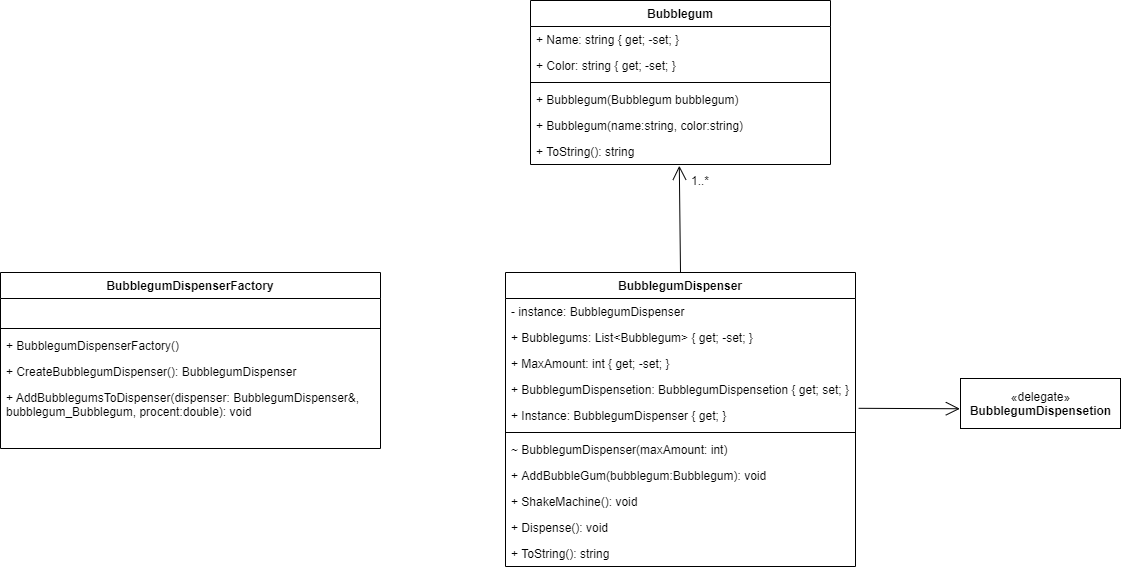
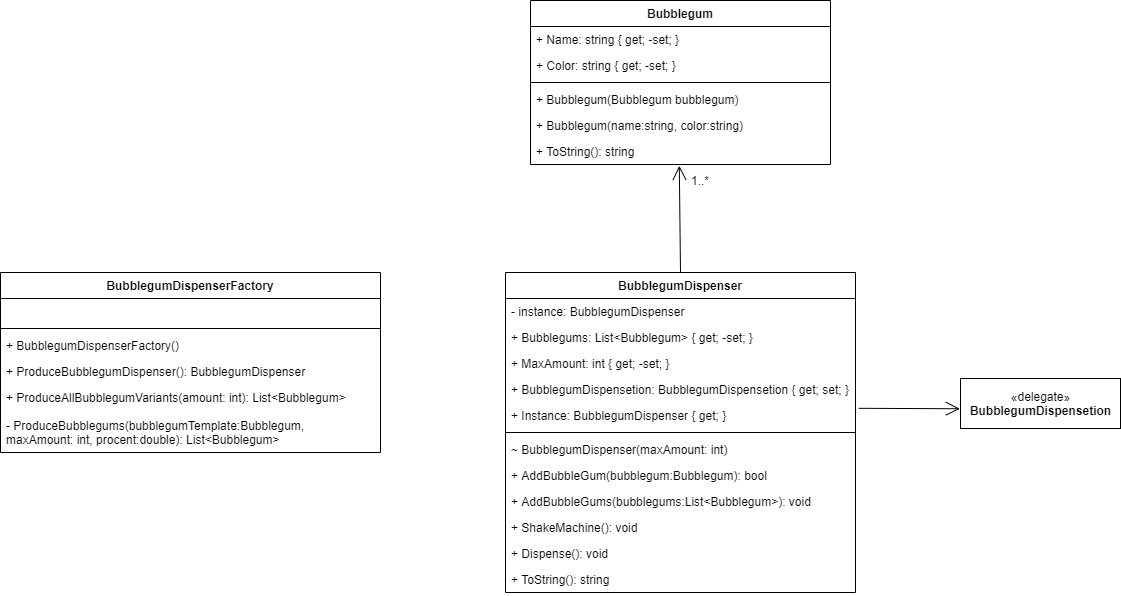
Commit

diff --git a/ChewAndPhew/Lib/BubblegumDispenserFactory.cs b/ChewAndPhew/Lib/BubblegumDispenserFactory.cs
@@ -1,37 +1,41 @@
 using System;
+using System.Collections.Generic;
 
 namespace ChewAndPhew.Lib
 {
     public class BubblegumDispenserFactory
     {
-        /// <summary>
-        /// Used to create new bubblegum dispenser
-        /// </summary>
-        public BubblegumDispenser CreateBubblegumDispenser()
+        public BubblegumDispenser ProduceBubblegumDispenser()
         {
             BubblegumDispenser dispenser = new BubblegumDispenser(55);
-            AddBubblegumsToDispenser(ref dispenser, new Bubblegum("Blueberry", "Indigo"), 25.0);
-            AddBubblegumsToDispenser(ref dispenser, new Bubblegum("Blackberry", "Purple"), 12.0);
-            AddBubblegumsToDispenser(ref dispenser, new Bubblegum("Truttifrutti", "Yellow"), 20.0);
-            AddBubblegumsToDispenser(ref dispenser, new Bubblegum("Orange", "Orange"), 19.0);
-            AddBubblegumsToDispenser(ref dispenser, new Bubblegum("Strawberry", "Red"), 14.0);
-            AddBubblegumsToDispenser(ref dispenser, new Bubblegum("Apple", "Green"), 10.0);
+            dispenser.AddBubblegums(ProduceAllBubblegumVariants(dispenser.MaxAmount));
             dispenser.ShakeMachine();
 
             return dispenser;
         }
-
-        /// <summary>
-        /// Used to bubblegums to dispenser by procent
-        /// </summary>
-        private void AddBubblegumsToDispenser(ref BubblegumDispenser dispenser, Bubblegum bubblegum, double procent)
+        public List<Bubblegum> ProduceAllBubblegumVariants(int amount)
         {
-            int amount = (int)(Math.Round(dispenser.MaxAmount / 100.0) * procent);
+            List<Bubblegum> bubblegums = new List<Bubblegum>(amount);
+            bubblegums.AddRange(ProduceBubblegums(new Bubblegum("Blueberry", "Indigo"), amount, 25.0));
+            bubblegums.AddRange(ProduceBubblegums(new Bubblegum("Blackberry", "Purple"), amount, 12.0));
+            bubblegums.AddRange(ProduceBubblegums(new Bubblegum("Truttifrutti", "Yellow"), amount, 20.0));
+            bubblegums.AddRange(ProduceBubblegums(new Bubblegum("Orange", "Orange"), amount, 19.0));
+            bubblegums.AddRange(ProduceBubblegums(new Bubblegum("Strawberry", "Red"), amount, 14.0));
+            bubblegums.AddRange(ProduceBubblegums(new Bubblegum("Apple", "Green"), amount, 10.0));
+            return bubblegums;
+        }
+
+        private List<Bubblegum> ProduceBubblegums(Bubblegum bubblegumTemplate, int maxAmount, double procent)
+        {
+            int amount = (int)(Math.Round((maxAmount / 100.0) * procent));
+            List<Bubblegum> bubblegums = new List<Bubblegum>(amount);
 
             for (int i = 0; i < amount; i++)
             {
-                dispenser.AddBubbleGum(new Bubblegum(bubblegum));
+                bubblegums.Add(new Bubblegum(bubblegumTemplate));
             }
+
+            return bubblegums;
         }
     }
 }

diff --git a/ChewAndPhew Task 2/Lib/BubblegumDispenserFactory.cs b/ChewAndPhew Task 2/Lib/BubblegumDispenserFactory.cs
@@ -1,33 +1,41 @@
 using System;
 using System.Collections.Generic;
-using System.Text;
 
 namespace ChewAndPhew.Lib
 {
     public class BubblegumDispenserFactory
     {
-        public BubblegumDispenser CreateBubblegumDispenser()
+        public BubblegumDispenser ProduceBubblegumDispenser()
         {
             BubblegumDispenser dispenser = new BubblegumDispenser(55);
-            AddBubblegumsToDispenser(ref dispenser, new Bubblegum("Blueberry", "Indigo"), 25.0);
-            AddBubblegumsToDispenser(ref dispenser, new Bubblegum("Blackberry", "Purple"), 12.0);
-            AddBubblegumsToDispenser(ref dispenser, new Bubblegum("Truttifrutti", "Yellow"), 20.0);
-            AddBubblegumsToDispenser(ref dispenser, new Bubblegum("Orange", "Orange"), 19.0);
-            AddBubblegumsToDispenser(ref dispenser, new Bubblegum("Strawberry", "Red"), 14.0);
-            AddBubblegumsToDispenser(ref dispenser, new Bubblegum("Apple", "Green"), 10.0);
+            dispenser.AddBubblegums(ProduceAllBubblegumVariants(dispenser.MaxAmount));
             dispenser.ShakeMachine();
 
             return dispenser;
         }
-
-        private void AddBubblegumsToDispenser(ref BubblegumDispenser dispenser, Bubblegum bubblegum, double procent)
+        public List<Bubblegum> ProduceAllBubblegumVariants(int amount)
         {
-            int amount = (int)(Math.Round(dispenser.MaxAmount / 100.0) * procent);
+            List<Bubblegum> bubblegums = new List<Bubblegum>(amount);
+            bubblegums.AddRange(ProduceBubblegums(new Bubblegum("Blueberry", "Indigo"), amount, 25.0));
+            bubblegums.AddRange(ProduceBubblegums(new Bubblegum("Blackberry", "Purple"), amount, 12.0));
+            bubblegums.AddRange(ProduceBubblegums(new Bubblegum("Truttifrutti", "Yellow"), amount, 20.0));
+            bubblegums.AddRange(ProduceBubblegums(new Bubblegum("Orange", "Orange"), amount, 19.0));
+            bubblegums.AddRange(ProduceBubblegums(new Bubblegum("Strawberry", "Red"), amount, 14.0));
+            bubblegums.AddRange(ProduceBubblegums(new Bubblegum("Apple", "Green"), amount, 10.0));
+            return bubblegums;
+        }
+
+        private List<Bubblegum> ProduceBubblegums(Bubblegum bubblegumTemplate, int maxAmount, double procent)
+        {
+            int amount = (int)(Math.Round((maxAmount / 100.0) * procent));
+            List<Bubblegum> bubblegums = new List<Bubblegum>(amount);
 
             for (int i = 0; i < amount; i++)
             {
-                dispenser.AddBubbleGum(new Bubblegum(bubblegum));
+                bubblegums.Add(new Bubblegum(bubblegumTemplate));
             }
+
+            return bubblegums;
         }
     }
 }

diff --git a/ChewAndPhew/Lib/BubblegumDispenser.cs b/ChewAndPhew/Lib/BubblegumDispenser.cs
@@ -8,25 +8,65 @@ namespace ChewAndPhew.Lib
 
     public class BubblegumDispenser
     {
-        public BubblegumDispenser(int maxAmount)
+        internal BubblegumDispenser(int maxAmount)
         {
             MaxAmount = maxAmount;
             Bubblegums = new List<Bubblegum>();
         }
 
+        private static BubblegumDispenser instance = null;
+
+        /// <summary>
+        /// Singleton instance
+        /// </summary>
+        public static BubblegumDispenser Instance
+        {
+            get
+            {
+                if (instance == null)
+                {
+                    BubblegumDispenserFactory factory = new BubblegumDispenserFactory();
+                    instance = factory.ProduceBubblegumDispenser();
+                }
+                return instance;
+            }
+        }
         public List<Bubblegum> Bubblegums { get; private set; }
         public int MaxAmount { get; private set; }
-        public BubblegumDispensetion BubblegumDispensetion { get; set; };
+        public BubblegumDispensetion BubblegumDispensetion { get; set; }
 
 
         /// <summary>
         /// Used to add a bubble gum to dispenser
         /// </summary>
-        public void AddBubbleGum(Bubblegum bubblegum)
+        /// <returns>True if bubblegum was added</returns>
+        public bool AddBubblegum(Bubblegum bubblegum)
         {
             if (Bubblegums.Count < MaxAmount)
             {
                 Bubblegums.Add(bubblegum);
+                return true;
+            }
+            return false;
+        }
+
+        /// <summary>
+        /// Used to add a bubbles gum to dispenser
+        /// </summary>
+        public void AddBubblegums(List<Bubblegum> bubblegums)
+        {
+            Bubblegum bubblegum = bubblegums.LastOrDefault();
+            while (bubblegum != null)
+            {
+                if (AddBubblegum(bubblegum))
+                {
+                    bubblegums.Remove(bubblegum);
+                }
+                else
+                {
+                    return;
+                }
+                bubblegum = bubblegums.LastOrDefault();
             }
         }
 
@@ -42,7 +82,7 @@ namespace ChewAndPhew.Lib
         /// Used to dispense bubblegum
         /// </summary>
         public void Dispense()
-        { 
+        {
             Bubblegum bubblegum = Bubblegums.LastOrDefault();
             if (Bubblegums.Count > 0)
             {

diff --git a/ChewAndPhew Task 2/Lib/BubblegumDispenser.cs b/ChewAndPhew Task 2/Lib/BubblegumDispenser.cs
@@ -26,7 +26,7 @@ namespace ChewAndPhew.Lib
                 if (instance == null)
                 {
                     BubblegumDispenserFactory factory = new BubblegumDispenserFactory();
-                    instance = factory.CreateBubblegumDispenser();
+                    instance = factory.ProduceBubblegumDispenser();
                 }
                 return instance;
             }
@@ -39,11 +39,34 @@ namespace ChewAndPhew.Lib
         /// <summary>
         /// Used to add a bubble gum to dispenser
         /// </summary>
-        internal void AddBubbleGum(Bubblegum bubblegum)
+        /// <returns>True if bubblegum was added</returns>
+        public bool AddBubblegum(Bubblegum bubblegum)
         {
             if (Bubblegums.Count < MaxAmount)
             {
                 Bubblegums.Add(bubblegum);
+                return true;
+            }
+            return false;
+        }
+
+        /// <summary>
+        /// Used to add a bubbles gum to dispenser
+        /// </summary>
+        public void AddBubblegums(List<Bubblegum> bubblegums)
+        {
+            Bubblegum bubblegum = bubblegums.LastOrDefault();
+            while (bubblegum != null)
+            {
+                if (AddBubblegum(bubblegum))
+                {
+                    bubblegums.Remove(bubblegum);
+                }
+                else
+                {
+                    return;
+                }
+                bubblegum = bubblegums.LastOrDefault();
             }
         }
 

diff --git a/ChewAndPhew Task 2/Program.cs b/ChewAndPhew Task 2/Program.cs
@@ -5,10 +5,27 @@ class Program
 {
     static void Main(string[] args)
     {
+        BubblegumDispenserFactory factory = new BubblegumDispenserFactory();
         BubblegumDispenser dispenser = BubblegumDispenser.Instance;
         dispenser.BubblegumDispensetion += OnBubblegumDispensetion;
 
         for (int i = 0; i < 60; i++)
+        {
+            Console.WriteLine(dispenser.ToString());
+            dispenser.Dispense();
+            Console.WriteLine(dispenser.ToString());
+        }
+        Console.ReadKey();
+        Console.Clear();
+
+        Console.WriteLine("Some kids buys new bubblegums from factory");
+
+        Console.ReadKey();
+        Console.Clear();
+
+        dispenser.AddBubblegums(factory.ProduceAllBubblegumVariants(20));
+
+        for (int i = 0; i < 30; i++)
         {
             Console.WriteLine(dispenser.ToString());
             dispenser.Dispense();

diff --git a/ChewAndPhew/Program.cs b/ChewAndPhew/Program.cs
@@ -8,7 +8,7 @@ namespace ChewAndPhew
         static void Main(string[] args)
         {
             BubblegumDispenserFactory factory = new BubblegumDispenserFactory();
-            BubblegumDispenser dispenser = factory.CreateBubblegumDispenser();
+            BubblegumDispenser dispenser = factory.ProduceBubblegumDispenser();
             dispenser.BubblegumDispensetion += OnBubblegumDispensetion;
 
             for (int i = 0; i < 60; i++)
